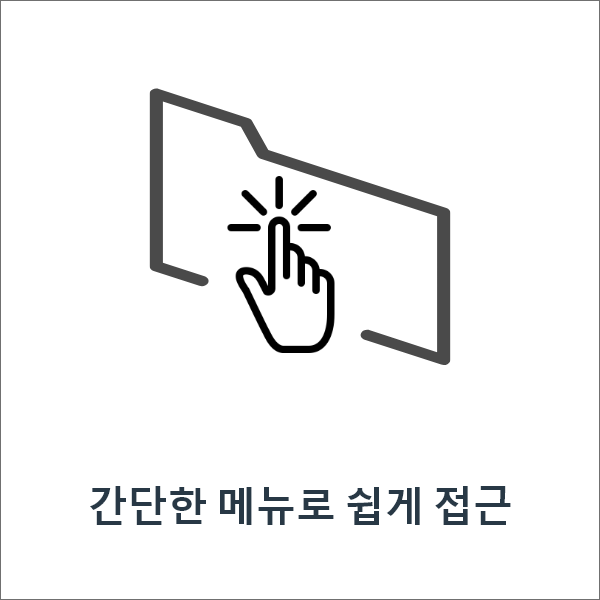
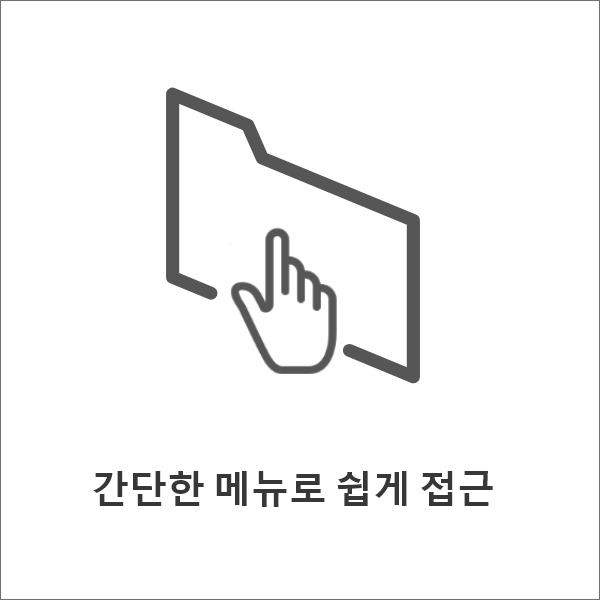
20220218 이미지, 메타태그수정

diff --git a/src/templates/page.js b/src/templates/page.js
@@ -5,6 +5,7 @@ import Img from "gatsby-image";
 import { MDXRenderer } from "gatsby-plugin-mdx";
 import Layout from "../components/Layout";
 import { Box, Typography } from "@material-ui/core";
+import { Helmet } from "react-helmet";
 
 const useStyles = makeStyles(() => ({
   article: {
@@ -28,32 +29,48 @@ export default function PageTemplate({ data }) {
     body,
   } = mdx;
   return (
-    <Layout>
-      <Box flexGrow={1} width="100%" maxWidth={960} marginX="auto">
-        <Box padding={2}>
-          <Box marginBottom={1}>
-            <Typography
-              variant="h5"
-              style={{
-                fontFamily: "Nanum Gothic",
-                fontWeight: "bold",
-              }}
-            >
-              {title}
-            </Typography>
+    <>
+      <Helmet>
+        <title>{title}</title>
+
+        <meta name="description" content={body} />
+        <meta name="viewport" content="width=device-width, initial-scale=1.0" />
+        <meta httpEquiv="Content-Type" content="text/html;charset=UTF-8" />
+
+        <meta property="og:type" content="website" />
+        <meta property="og:title" content={title} />
+        <meta property="og:description" content={body} />
+        <meta property="og:image" content={featuredImage} />
+        {/* <meta property="og:url" content={url} /> */}
+        <meta property="og:site_name" content={title} />
+      </Helmet>
+      <Layout>
+        <Box flexGrow={1} width="100%" maxWidth={960} marginX="auto">
+          <Box padding={2}>
+            <Box marginBottom={1}>
+              <Typography
+                variant="h5"
+                style={{
+                  fontFamily: "Nanum Gothic",
+                  fontWeight: "bold",
+                }}
+              >
+                {title}
+              </Typography>
+            </Box>
+            {featuredImage && (
+              <Img
+                fluid={featuredImage.childImageSharp.fluid}
+                style={{ borderRadius: 2 }}
+              />
+            )}
+            <article className={classes.article}>
+              <MDXRenderer>{body}</MDXRenderer>
+            </article>
           </Box>
-          {featuredImage && (
-            <Img
-              fluid={featuredImage.childImageSharp.fluid}
-              style={{ borderRadius: 2 }}
-            />
-          )}
-          <article className={classes.article}>
-            <MDXRenderer>{body}</MDXRenderer>
-          </article>
         </Box>
-      </Box>
-    </Layout>
+      </Layout>
+    </>
   );
 }
 

diff --git a/src/content/pages/iYagiLab/ResearchImg.js b/src/content/pages/iYagiLab/ResearchImg.js
@@ -7,19 +7,19 @@ function ResearchImg() {
   return (
     <>
       <img
+        src={Summary}
+        style={{ width: 295, height: 270, marginRight: 10 }}
+        alt="Summary"
+      />
+      <img
         src={Manufacturing}
-        style={{ width: 270, height: 250, marginRight: 30 }}
+        style={{ width: 295, height: 270, marginRight: 10 }}
         alt="Manufacturing"
       />
       <img
         src={Profiling}
-        style={{ width: 270, height: 250, marginRight: 30 }}
+        style={{ width: 295, height: 270, marginRight: 10 }}
         alt="Profiling"
-      />
-      <img
-        src={Summary}
-        style={{ width: 270, height: 250, marginRight: 30 }}
-        alt="Summary"
       />
     </>
   );

diff --git a/src/content/pages/bora/Use.js b/src/content/pages/bora/Use.js
@@ -10,17 +10,17 @@ function Use() {
     >
       <img
         src={use1}
-        style={{ width: 180, height: 180, marginRight: 30 }}
+        style={{ width: 295, height: 270, marginRight: 10 }}
         alt="use1"
       />
       <img
         src={use2}
-        style={{ width: 180, height: 180, marginRight: 30 }}
+        style={{ width: 295, height: 270, marginRight: 10 }}
         alt="use2"
       />
       <img
         src={use3}
-        style={{ width: 180, height: 180, marginRight: 30 }}
+        style={{ width: 295, height: 270, marginRight: 10 }}
         alt="use3"
       />
     </div>
